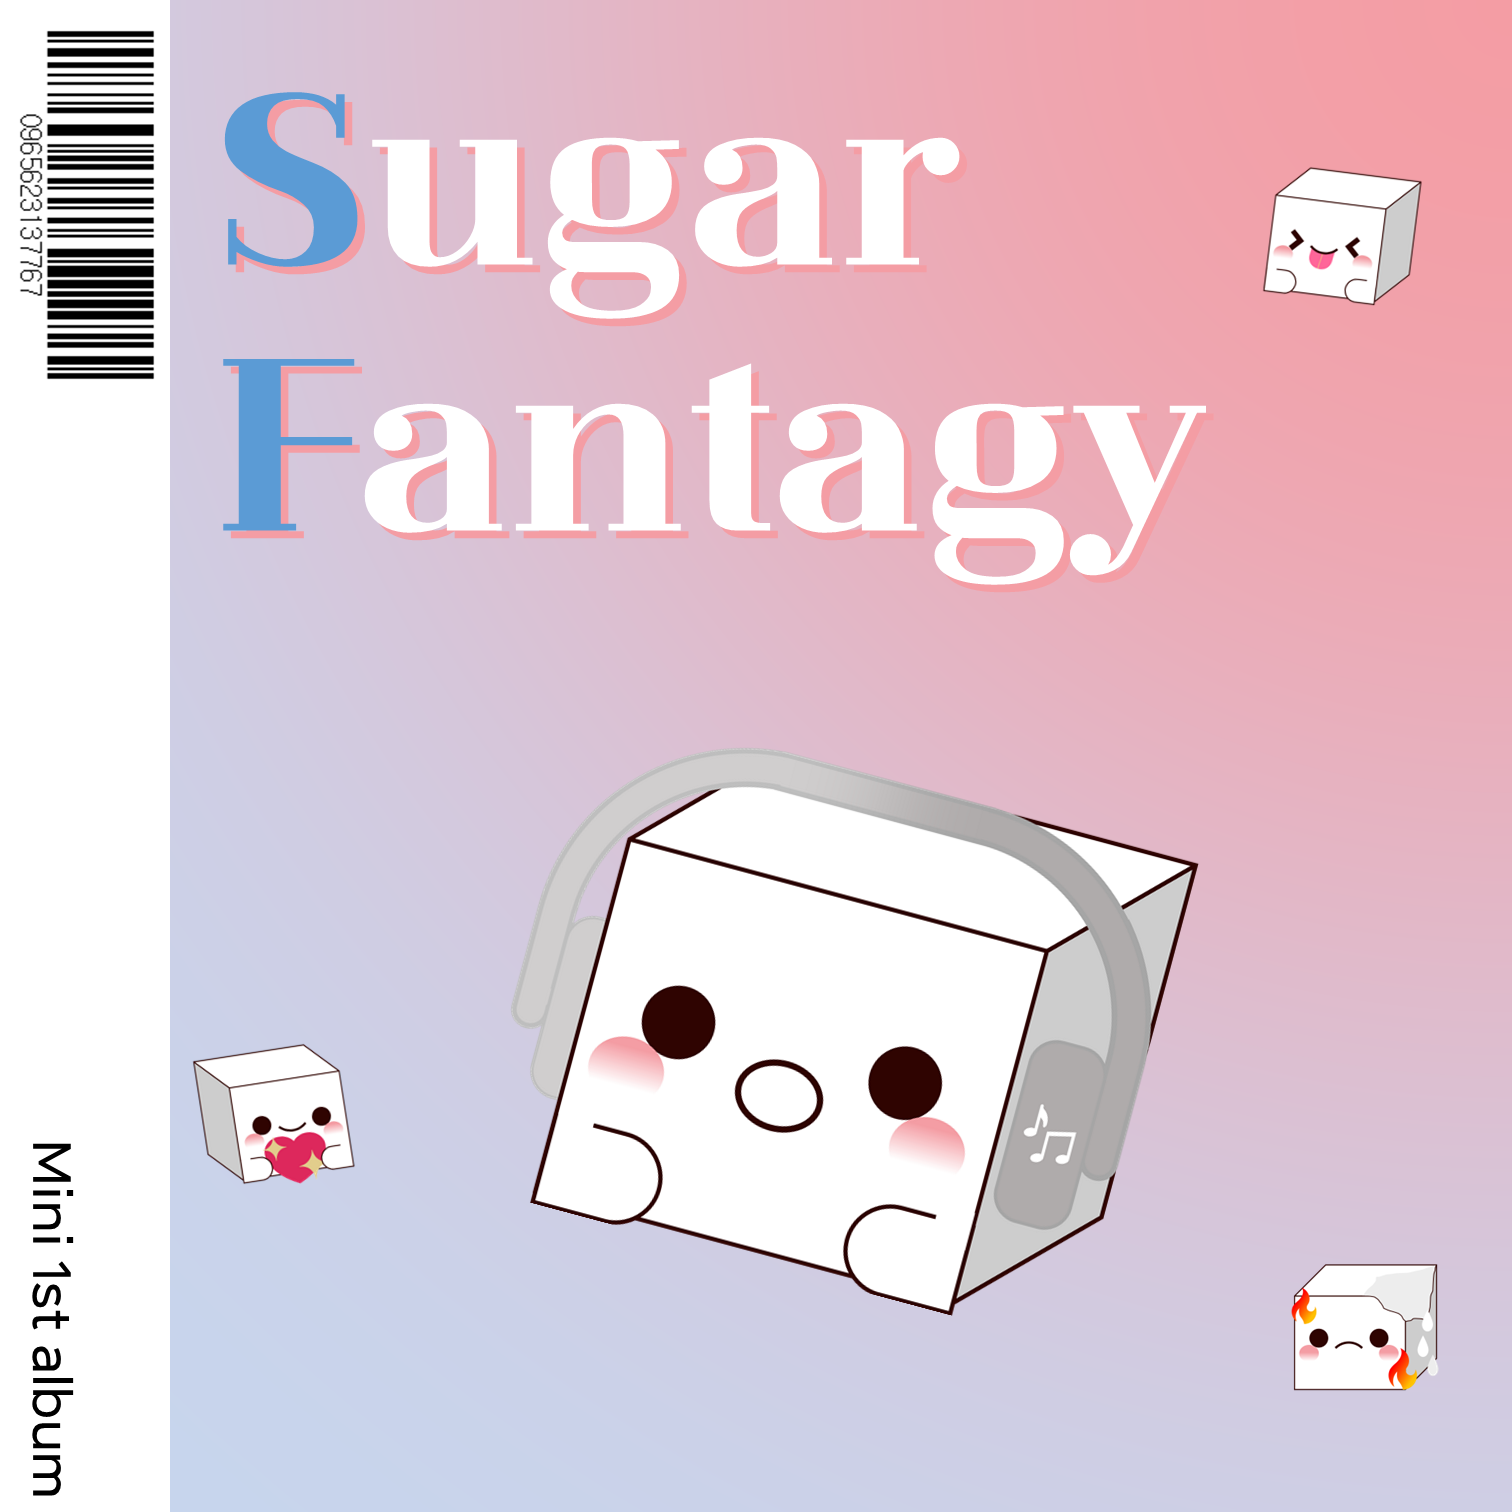
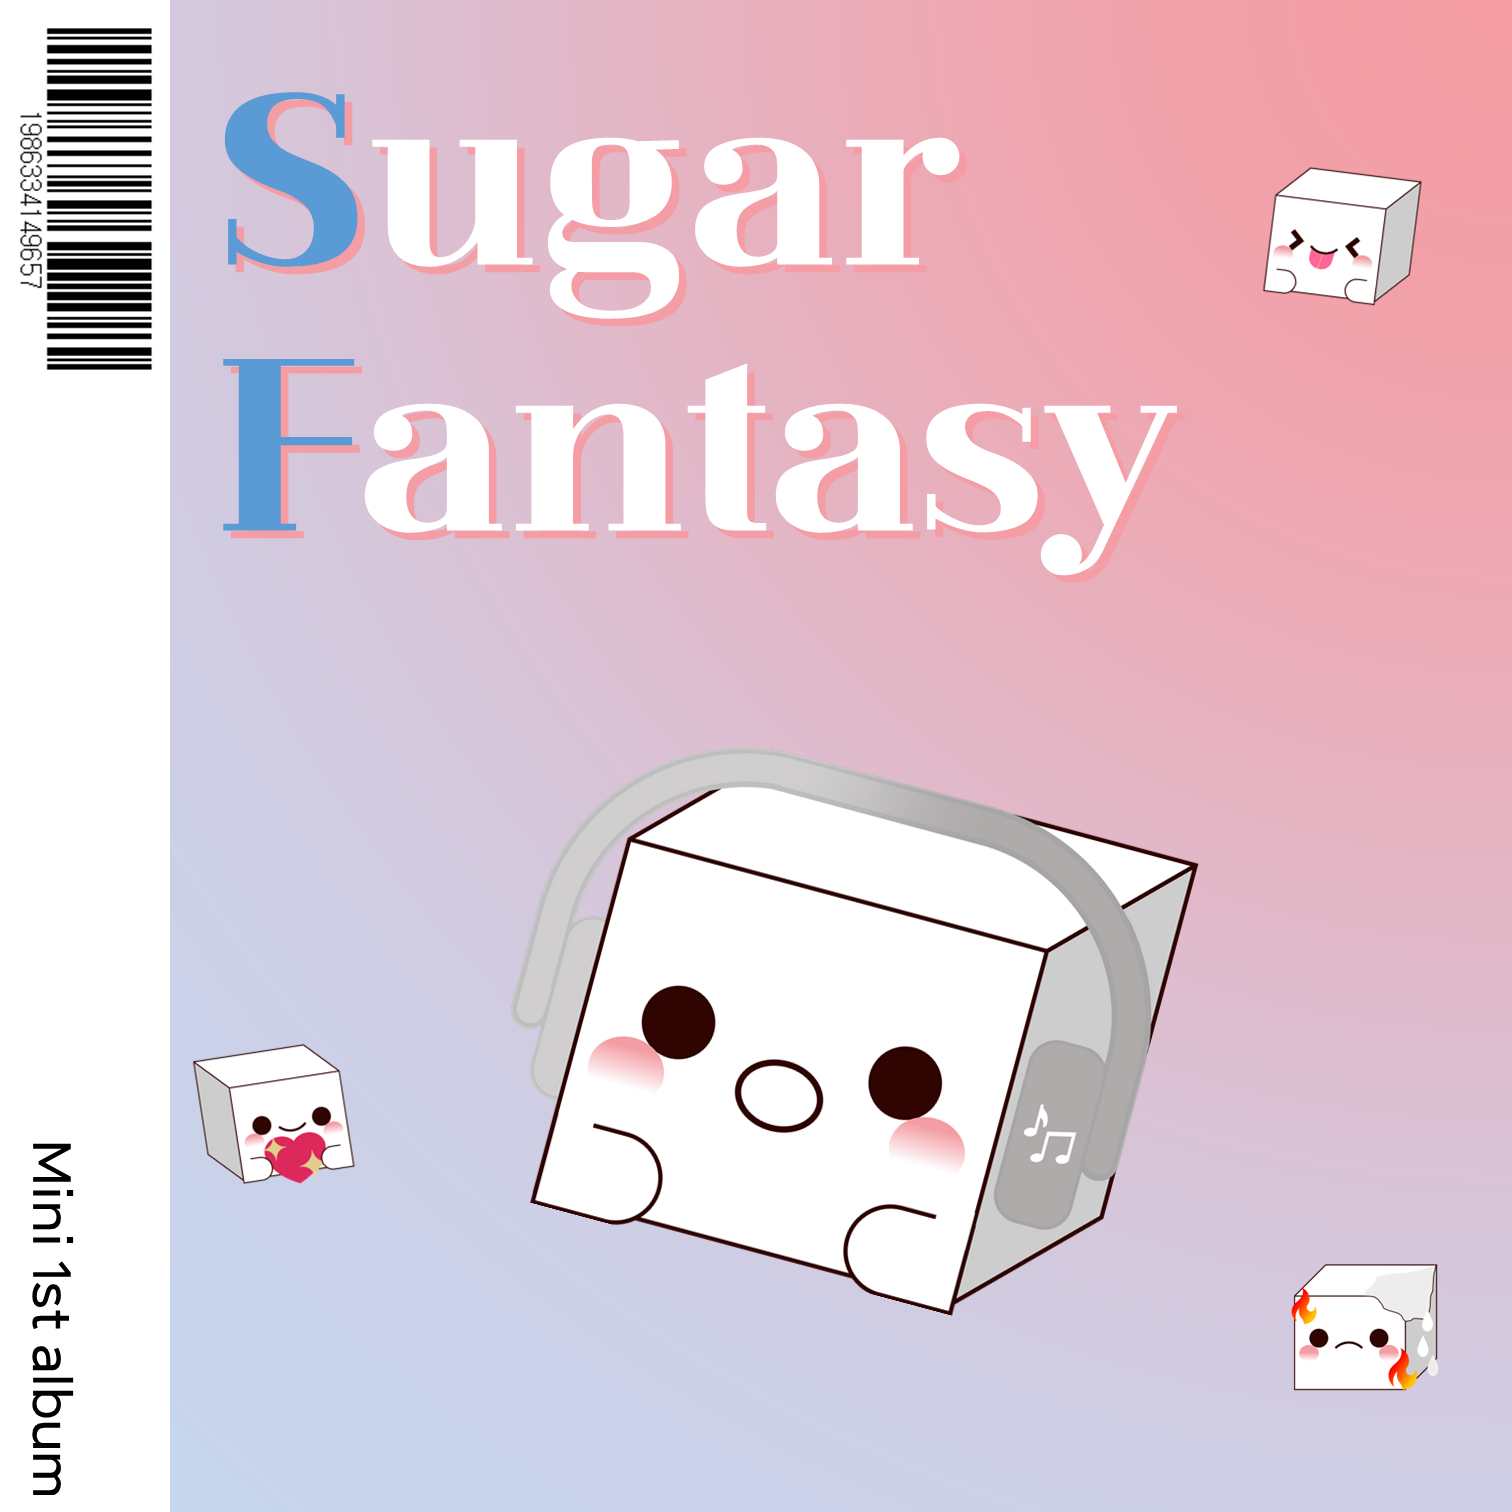
update

Changed region(s): [[0.5906, 0.2487, 0.8082, 0.4041], [0.0, 0.0, 0.1243, 0.2487], [0.4663, 0.2487, 0.5595, 0.3419]]

diff --git a/public/funding.html b/public/funding.html
@@ -175,7 +175,7 @@
                     App Supporter : GSUGAR ENTERTAINMENT(Artist Message, Artist Content, Coummunity)
                 </div>
             </div>
-            <div id="collection_tab" style="margin-top: 88px; display: none;">
+            <div id="collection_tab" style="margin-top: 88px; display: none; background-color: white;">
                 <div style="margin: 8px; padding: 8px; background-color: #f6f6f6; border-radius: 15px; height: auto; display: flex;">
                     <img src="esset/testbed_album_1.png" alt="" width="35%">
                     <div style="display: flex; flex-direction: column; margin-left: 5px; justify-content: center; width: 100%;">
@@ -192,11 +192,85 @@
                     </div>
                 </div>
             </div>
-            <div id="shop_tab" style="margin-top: 88px; display: none;">
-                <div style="margin: 8px; background-color: #f6f6f6; border-radius: 15px; height: 50px;">준비 중 입니다</div>
+            <div id="shop_tab" style="margin-top: 88px; display: none; background-color: white;">
+                <div id="storeContent" class="testshop-grid black" style="margin: 8px;">
+                    <a>
+                        <div style="background-color: #f6f6f6; text-align: center; display: flex; justify-content: center; align-items: center; aspect-ratio: 1 / 1; width: 100%;">
+                            <img src="esset/testbed_album_1.png" alt="각설탕 미니 1집 앨범 SF ver." style="width: 80%; height: auto;">
+                        </div>
+                        <h1 class="testshop_name black">[미니 1집] Sugar Fantasy SF ver.</h1>
+                        <h2 class="testshop_price black">17,800원</h2>
+                    </a>
+                    <a>
+                        <div style="background-color: #f6f6f6; text-align: center; display: flex; justify-content: center; align-items: center; aspect-ratio: 1 / 1; width: 100%;">
+                            <img src="esset/testbed_album_1_2.png" alt="각설탕 미니 1집 앨범 Space Fantasy ver." style="width: 80%; height: auto;">
+                        </div>
+                        <h1 class="testshop_name black">[미니 1집] Sugar Fantasy Space Fantasy ver.</h1>
+                        <h2 class="testshop_price black">17,800원</h2>
+                    </a>
+                    <a>
+                        <div style="background-color: #f6f6f6; text-align: center; display: flex; justify-content: center; align-items: center; aspect-ratio: 1 / 1; width: 100%;">
+                            <img src="esset/testbed_album_1_3.png" alt="각설탕 미니 1집 앨범 Sugar Funny ver." style="width: 80%; height: auto;">
+                        </div>
+                        <h1 class="testshop_name black">[미니 1집] Sugar Fantasy Sugar Funny ver.</h1>
+                        <h2 class="testshop_price black">17,800원</h2>
+                    </a>
+                    <a>
+                        <div style="background-color: #f6f6f6; text-align: center; display: flex; justify-content: center; align-items: center; aspect-ratio: 1 / 1; width: 100%;">
+                            <img src="esset/photocard.png" alt="설탕이 우주여행 포토카드🌌" style="width: 100%; height: auto;">
+                        </div>
+                        <h1 class="testshop_name black">설탕이 우주여행 포토카드🌌</h1>
+                        <h2 class="testshop_price black">4,500원 ~ 7,000원</h2>
+                    </a>
+                </div>
+                <div style="margin-left: 8px; font-size: 12px; padding-bottom: 75px;" class="black">
+                    Artist Agency : GSUGAR LABLES<br>
+                    Distributor : GSUGAR ENTERTAINMENT
+                </div>
             </div>
-            <div id="event_tab" style="margin-top: 88px; display: none;">
-                <div style="margin: 8px; background-color: #f6f6f6; border-radius: 15px; height: 50px;">준비 중 입니다</div>
+            <div id="event_tab" style="margin-top: 88px; display: none; background-color: white;">
+                <div style="margin: 8px;">
+                    <div style="text-align: center; display: flex;">
+                        <h2 class="event_control black" style=" color: white; background-color: blueviolet;">진행중 ( 3 )</h2>
+                        <h2 class="event_control black" onclick="openEndEvent()">종료 ( 0 )</h2>
+                    </div>
+                    <div style="background-color: #f6f6f6; border-radius: 15px; height: auto;">
+                        <div style="padding: 8px; background-color: white; border-radius: 15px; height: auto; display: flex; flex-direction: column;">
+                            <img src="esset/event_1.png" alt="" width="100%">
+                            <h3 class="black">미니 1집 Sugar Fantasy 출시 기념 대면 팬사인회 이벤트</h3>
+                            <p class="black" style="margin: 0;">3024. 10. 14 ~ 3024. 10. 21</p>
+                        </div>
+                        <div class="hovering" style="padding: 8px; border-radius: 15px; height: auto; display: flex; justify-content: center; align-items: center;">
+                            <div class="white" style="text-align: center;">더보기</div>
+                        </div>
+                    </div>
+                    <div style="background-color: #f6f6f6; border-radius: 15px; height: auto;">
+                        <div style="padding: 8px; background-color: white; border-radius: 15px; height: auto; display: flex; flex-direction: column;">
+                            <img src="esset/event_1.png" alt="" width="100%">
+                            <h3 class="black">미니 1집 Sugar Fantasy 출시 기념 영상통화 팬사인회 이벤트</h3>
+                            <p class="black" style="margin: 0;">3024. 10. 14 ~ 3024. 10. 21</p>
+                        </div>
+                        <div class="hovering" style="padding: 8px; border-radius: 15px; height: auto; display: flex; justify-content: center; align-items: center;">
+                            <div class="white" style="text-align: center;">더보기</div>
+                        </div>
+                        
+                    </div>
+                    <div style="background-color: #f6f6f6; border-radius: 15px; height: auto;">
+                        <div style="padding: 8px; background-color: white; border-radius: 15px; height: auto; display: flex; flex-direction: column;">
+                            <img src="esset/event_3.png" alt="" width="100%">
+                            <h3 class="black">미니 1집 Sugar Fantasy 출시 기념 티켓 2배 제공 이벤트</h3>
+                            <p class="black" style="margin: 0;">3024. 10. 14 ~ 3024. 10. 21</p>
+                        </div>
+                        <div class="hovering" style="padding: 8px; border-radius: 15px; height: auto; display: flex; justify-content: center; align-items: center;">
+                            <div class="white" style="text-align: center;">더보기</div>
+                        </div>
+                        
+                    </div>
+                </div>
+                
+                <div style="margin-left: 8px; font-size: 12px; padding-bottom: 75px;" class="black">
+                    Event Host : GSUGAR LABLES
+                </div>
             </div>
             <div id="button_line" style="position: fixed; background-color: black; color: white; bottom: 0; text-align: center; display: flex; height: 70px;">
                 <a onclick="bottom_button_style(0)" class="whiteNpadding bottom_button" style="background-color: blueviolet;">홈<br>Home</a>

diff --git a/public/gsugarofficial.html b/public/gsugarofficial.html
@@ -154,16 +154,8 @@
     <div id="store">
         <h2 class="logo-text black">업무 기록</h2>
         <div id="workrecord">
-            <h3>내역 (2024. 10. 06. 이후)</h3>
-            <p class="black" style="background-color: #f6f6f6; padding: 8px; border-radius: 15px;"> 2024년 10월 08일 19:32 엔터업계 네트워킹 : 준* 마케터님에게 커피챗 요청 (답변 대기 중)</p>
-            <p class="black" style="background-color: #f6f6f6; padding: 8px; border-radius: 15px;"> 2024년 10월 08일 19:24 스타트업 네트워킹 : 이**님에게 커피챗 요청 (답변 대기 중)</p>
-            <p class="black" style="background-color: #f6f6f6; padding: 8px; border-radius: 15px;"> 2024년 10월 08일 19:07 스타트업 네트워킹 : 오** 개발자님</p>
-            <p class="black" style="background-color: #f6f6f6; padding: 8px; border-radius: 15px;"> 2024년 10월 08일 17:35 팬덤 의견 수집을 위해 itf***********님에게 인스타그램 DM 전송 (답변 대기 중)</p>
-            <p class="black" style="background-color: #f6f6f6; padding: 8px; border-radius: 15px;"> 2024년 10월 08일 17:08 스타트업 네트워킹 : 박** 프로덕트 디자이너님의 커피챗 요청 수락 (일정 확정)</p>
-            <p class="black" style="background-color: #f6f6f6; padding: 8px; border-radius: 15px;"> 2024년 10월 08일 16:52 기획사 의견 수집을 위해 JYP엔터테인먼트에게 인터뷰 요청 (답변 대기 중)</p>
-            <p class="black" style="background-color: #f6f6f6; padding: 8px; border-radius: 15px;"> 2024년 10월 08일 02:13 각설탕엔터 투명성 페이지(gsugar-ent.netlify.app/gsugarofficial) DB 1차 연동 (각설탕엔터테인먼트 개요, 자금 세부사항 일부) 및 자금 세부사항 일부 완성 (현금성 자산, 금융 자산 기록)</p>
-            <p class="black" style="background-color: #f6f6f6; padding: 8px; border-radius: 15px;"> 2024년 10월 07일 18:38 팬덤 의견 수집을 위해 최**님에게 인스타그램 DM 전송 (답변 확인 22:18)</p>
-            <p class="black" style="background-color: #f6f6f6; padding: 8px; border-radius: 15px;"> 2024년 10월 07일 17:35 기획사 의견 수집을 위해 SM엔터테인먼트에게 인터뷰 요청 (답변 대기 중)</p>
+            <h3>내역 (2024. 10. 14. 이후)</h3>
+            <p class="black" style="background-color: #f6f6f6; padding: 8px; border-radius: 15px;"> 2024년 10월 14일 19:48 팬덤 플랫폼 체험 페이지 Event탭 외부 디자인 완성</p>
         </div>
     </div>
 

diff --git a/public/special.css b/public/special.css
@@ -46,6 +46,32 @@
     border-color: blueviolet;
 }
 
+.testshop-grid {
+    display: grid;
+    grid-template-columns: repeat(2, 1fr);
+    gap: 10px;
+}
+
+.testshop_name {
+    font-size: 15px;
+}
+
+.testshop_price {
+    font-size: 13px;
+}
+
+.event_control {
+    display: inline-block; 
+    width: 100%; 
+    font-size: 18px;
+    padding: 8px;
+}
+.event_control:hover {
+    cursor: pointer;
+    color: blueviolet;
+    background-color: #f6f6f6;
+}
+
 @media (max-width: 900px) {
     #testbed {
         width: 100vw;
